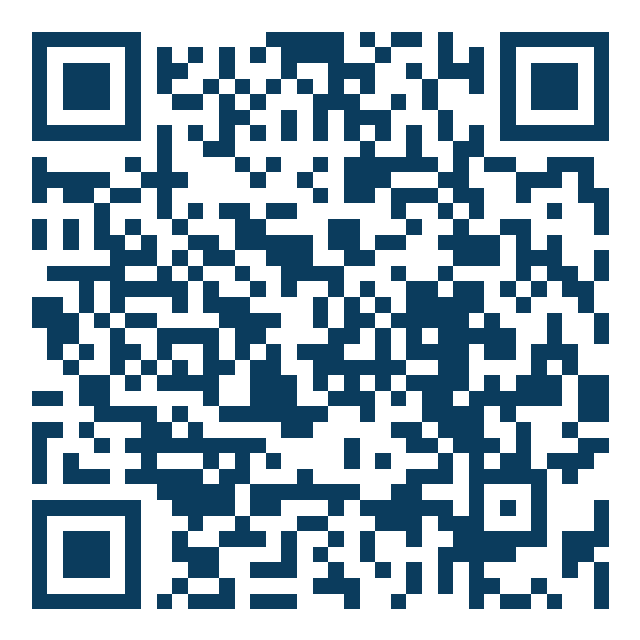
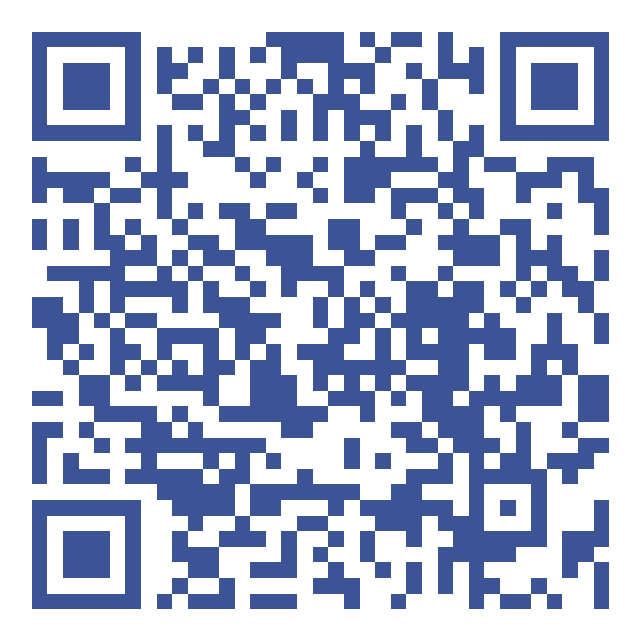
Paleta institucional de la DIRESA Cajamarca
Colores del emblema (azul, azul marino, rojo, verde y amarillo) en
encabezado, franja institucional, portada, gráficos, mapa, favicon,
imagen para compartir y QR. Combinaciones validadas para contraste
y daltonismo en modo claro y oscuro. Corrige la orientación de la
pirámide poblacional.

diff --git a/src/styles/global.css b/src/styles/global.css
@@ -3,46 +3,55 @@
 /* El tema se fija en <html data-theme="light|dark"> con un script en <head> (sin parpadeo). */
 @custom-variant dark (&:where([data-theme=dark], [data-theme=dark] *));
 
+/* Paleta institucional tomada del emblema de la DIRESA Cajamarca:
+   azul #0087C6 · azul marino #3C5395 · rojo #C43438 · verde #00A859 · amarillo #E0E332.
+   Las combinaciones de gráficos se validaron (contraste y daltonismo) en modo claro y oscuro. */
 :root {
   color-scheme: light;
+  --inst-azul: #0087c6; --inst-marino: #3c5395; --inst-rojo: #c43438; --inst-verde: #00a859; --inst-amarillo: #e0e332;
   /* superficies y tinta */
-  --page: #f4f6f7; --surface: #ffffff; --surface-2: #eef2f3; --surface-3: #e3e9eb;
-  --ink: #0d1b24; --ink-2: #44535c; --muted: #66747c;
-  --grid: #e1e5e6; --axis: #c3cbce; --border: rgba(13, 27, 36, .12);
-  /* institucional: azul petróleo del sector salud */
-  --brand: #0b3c5d; --brand-2: #0f5c7a; --brand-ink: #ffffff;
-  --accent: #0d7c72; --accent-soft: #e2f3f1; --link: #0b6a8a; --focus: #2a78d6;
-  /* series validadas (dataviz: categórica slots 1-2 y rampa ordinal azul) */
-  --s1: #2a78d6; --s2: #eb6834; --s1-strong: #104281;
-  --o1: #86b6ef; --o2: #3987e5; --o3: #1c5cab; --o4: #0d366b;
-  --notice-bg: #fff6e0; --notice-ink: #5a4300; --notice-border: #ecd28c;
-  --warn-bg: #fdecec; --warn-ink: #7a1f1f;
-  --shadow: 0 1px 2px rgba(13,27,36,.06), 0 4px 16px rgba(13,27,36,.05);
+  --page: #f3f6fa; --surface: #ffffff; --surface-2: #eef2f8; --surface-3: #e2e8f2;
+  --ink: #141c33; --ink-2: #47506a; --muted: #687189;
+  --grid: #e2e7ef; --axis: #c5cddb; --border: rgba(20, 28, 51, .12);
+  /* institucional */
+  --brand: #3c5395; --brand-2: #0087c6; --brand-ink: #ffffff;
+  --accent: #006fa3; --accent-soft: #e3f1fa; --link: #006fa3; --focus: #0087c6;
+  --verde: #00a859;
+  /* series de gráficos */
+  --s1: #0087c6; --s2: #c43438; --s1-strong: #3c5395;
+  --o1: #a5b4df; --o2: #6f84c4; --o3: #3c5395; --o4: #24346a;
+  --notice-bg: #fbfbe2; --notice-ink: #4a4a00; --notice-border: #e0e332;
+  --warn-bg: #fbeaea; --warn-ink: #7f1d21;
+  --shadow: 0 1px 2px rgba(20,28,51,.06), 0 4px 16px rgba(20,28,51,.05);
 }
 :root[data-theme="dark"] {
   color-scheme: dark;
-  --page: #0c1215; --surface: #141c20; --surface-2: #1b252a; --surface-3: #243137;
-  --ink: #f2f6f7; --ink-2: #bcc8cc; --muted: #93a2a8;
-  --grid: #26323a; --axis: #36444b; --border: rgba(255,255,255,.10);
-  --brand: #08263a; --brand-2: #0d4660;
-  --accent: #3cc2b4; --accent-soft: #10302d; --link: #7cc7e6; --focus: #5598e7;
-  --s1: #3987e5; --s2: #d95926; --s1-strong: #9ec5f4;
-  --o1: #184f95; --o2: #256abf; --o3: #5598e7; --o4: #9ec5f4;
-  --notice-bg: #2e2611; --notice-ink: #f3dc9b; --notice-border: #5c4a1a;
-  --warn-bg: #3a1717; --warn-ink: #f5c1c1;
+  --page: #0b1220; --surface: #121b2b; --surface-2: #1a2538; --surface-3: #22304a;
+  --ink: #f1f5fb; --ink-2: #b9c4d6; --muted: #8f9bb1;
+  --grid: #233047; --axis: #33425d; --border: rgba(255,255,255,.10);
+  --brand: #22336a; --brand-2: #0b5f8c;
+  --accent: #4fb8e8; --accent-soft: #0e2a3d; --link: #5cc0f0; --focus: #4fb8e8;
+  --verde: #19c26f;
+  --s1: #2a9fd6; --s2: #e0575c; --s1-strong: #a9b9ea;
+  --o1: #3a4f94; --o2: #4d66b0; --o3: #7189d1; --o4: #a9b9ea;
+  --notice-bg: #26260f; --notice-ink: #ecee9c; --notice-border: #6b6c1b;
+  --warn-bg: #3a1719; --warn-ink: #f5c1c3;
   --shadow: 0 1px 2px rgba(0,0,0,.4);
 }
 /* sin JavaScript: respetar la preferencia del sistema */
 @media (prefers-color-scheme: dark) {
   :root:not([data-theme]) {
     color-scheme: dark;
-    --page: #0c1215; --surface: #141c20; --surface-2: #1b252a; --surface-3: #243137;
-    --ink: #f2f6f7; --ink-2: #bcc8cc; --muted: #93a2a8; --grid: #26323a; --axis: #36444b; --border: rgba(255,255,255,.10);
-    --brand: #08263a; --brand-2: #0d4660; --accent: #3cc2b4; --accent-soft: #10302d; --link: #7cc7e6;
-    --s1: #3987e5; --s2: #d95926; --s1-strong: #9ec5f4; --o1: #184f95; --o2: #256abf; --o3: #5598e7; --o4: #9ec5f4;
-    --notice-bg: #2e2611; --notice-ink: #f3dc9b; --notice-border: #5c4a1a;
+    --page: #0b1220; --surface: #121b2b; --surface-2: #1a2538; --surface-3: #22304a;
+    --ink: #f1f5fb; --ink-2: #b9c4d6; --muted: #8f9bb1; --grid: #233047; --axis: #33425d; --border: rgba(255,255,255,.10);
+    --brand: #22336a; --brand-2: #0b5f8c; --accent: #4fb8e8; --accent-soft: #0e2a3d; --link: #5cc0f0; --verde: #19c26f;
+    --s1: #2a9fd6; --s2: #e0575c; --s1-strong: #a9b9ea; --o1: #3a4f94; --o2: #4d66b0; --o3: #7189d1; --o4: #a9b9ea;
+    --notice-bg: #26260f; --notice-ink: #ecee9c; --notice-border: #6b6c1b;
   }
 }
+
+/* Franja institucional con los cuatro colores del emblema */
+.franja { height: 4px; background: linear-gradient(90deg, var(--inst-amarillo) 0 25%, var(--inst-rojo) 25% 50%, var(--inst-verde) 50% 75%, var(--inst-azul) 75% 100%); }
 
 @theme {
   --font-sans: system-ui, -apple-system, "Segoe UI", Roboto, "Helvetica Neue", Arial, sans-serif;

diff --git a/scripts/og-2025.html b/scripts/og-2025.html
@@ -1,19 +1,19 @@
 <!doctype html><html lang="es"><head><meta charset="utf-8"><style>
 html,body{margin:0;width:1200px;height:630px;overflow:hidden;font-family:"Segoe UI",system-ui,sans-serif}
-body{background:#0b3c5d;color:#fff;position:relative}
-.g1{position:absolute;right:-160px;top:-180px;width:640px;height:640px;border-radius:50%;background:radial-gradient(closest-side,rgba(127,224,212,.38),transparent)}
-.g2{position:absolute;left:300px;bottom:-260px;width:560px;height:560px;border-radius:50%;background:radial-gradient(closest-side,rgba(57,135,229,.35),transparent)}
+body{background:linear-gradient(135deg,#3c5395 0%,#304684 55%,#0b6fa5 100%);color:#fff;position:relative}
+.g1{position:absolute;right:-160px;top:-180px;width:640px;height:640px;border-radius:50%;background:radial-gradient(closest-side,rgba(0,135,198,.55),transparent)}
+.g2{position:absolute;left:300px;bottom:-260px;width:560px;height:560px;border-radius:50%;background:radial-gradient(closest-side,rgba(224,227,50,.16),transparent)}
 .in{position:absolute;inset:64px 72px}
-.k{font-size:22px;letter-spacing:.08em;text-transform:uppercase;color:#9fe6dc;font-weight:700}
+.k{font-size:22px;letter-spacing:.08em;text-transform:uppercase;color:#e0e332;font-weight:700}
 h1{font-size:74px;line-height:1.02;margin:22px 0 0;font-weight:800}
-h1 span{color:#9fe6dc}
+h1 span{color:#e0e332}
 p{font-size:28px;line-height:1.35;color:rgba(255,255,255,.86);margin:22px 0 0;max-width:820px}
 .row{position:absolute;left:0;bottom:0;display:flex;gap:16px}
 .c{background:rgba(255,255,255,.1);border:1px solid rgba(255,255,255,.22);border-radius:16px;padding:14px 20px}
 .c b{display:block;font-size:34px}.c s{text-decoration:none;font-size:17px;color:rgba(255,255,255,.75)}
 .logo{position:absolute;right:0;top:0;width:96px;height:96px;border-radius:22px;background:rgba(255,255,255,.12);border:1px solid rgba(255,255,255,.25);display:grid;place-items:center}
-</style></head><body><div class="g1"></div><div class="g2"></div><div class="in">
-<div class="logo"><svg width="60" height="60" viewBox="0 0 24 24" fill="none"><path d="M12 3v18M3 12h18" stroke="#7fe0d4" stroke-width="3.2" stroke-linecap="round"/><path d="M5 17l3.5-4 3 2.5L18 8" stroke="#fff" stroke-width="1.8" stroke-linecap="round" stroke-linejoin="round"/></svg></div>
+</style></head><body><div style="position:absolute;left:0;right:0;top:0;height:10px;background:linear-gradient(90deg,#e0e332 0 25%,#c43438 25% 50%,#00a859 50% 75%,#0087c6 75% 100%)"></div><div class="g1"></div><div class="g2"></div><div class="in">
+<div class="logo"><svg width="60" height="60" viewBox="0 0 24 24" fill="none"><path d="M12 3v18M3 12h18" stroke="#e0e332" stroke-width="3.2" stroke-linecap="round"/><path d="M5 17l3.5-4 3 2.5L18 8" stroke="#fff" stroke-width="1.8" stroke-linecap="round" stroke-linejoin="round"/></svg></div>
 <div class="k">Red Integrada de Salud San Miguel · DIRESA Cajamarca</div>
 <h1>ASIS DIGITAL <span>2025</span></h1>
 <p>Análisis de Situación de Salud de la provincia de San Miguel: indicadores, mapas y líneas de acción.</p>

diff --git a/src/components/islas/MapaTerritorial.vue b/src/components/islas/MapaTerritorial.vue
@@ -86,7 +86,7 @@ function pintar() {
       if (props.soloDistrito && p.distrito !== props.soloDistrito) continue;
       const [x, y] = f.geometry.coordinates;
       const m = L.circleMarker([y, x], {
-        radius: radio(p.categoria), weight: 2, color: '#ffffff', fillColor: p.institucion === 'EsSalud' ? '#6b7a80' : css('--accent'), fillOpacity: 1,
+        radius: radio(p.categoria), weight: 2, color: '#ffffff', fillColor: p.institucion === 'EsSalud' ? '#6b7a80' : css('--verde'), fillOpacity: 1,
         dashArray: p.verificacion.startsWith('revisar') ? '2 2' : undefined,
       });
       m.bindPopup(popupEESS(f)); m.bindTooltip(p.nombre, { direction: 'top', offset: [0, -6] });
@@ -181,9 +181,9 @@ const unidadTxt = computed(() => ind.value.unidad === '%' ? '%' : ind.value.unid
       <div v-if="verEESS" class="mt-4 border-t border-line pt-3">
         <p class="font-semibold text-ink">Establecimientos</p>
         <ul class="mt-1.5 space-y-1">
-          <li v-for="c in ['I-1','I-2','I-3','I-4']" :key="c" class="flex items-center gap-2"><svg width="22" height="22" aria-hidden="true"><circle cx="11" cy="11" :r="radio(c)" fill="var(--accent)" stroke="#fff" stroke-width="2"/></svg>Categoría {{ c }} (MINSA)</li>
+          <li v-for="c in ['I-1','I-2','I-3','I-4']" :key="c" class="flex items-center gap-2"><svg width="22" height="22" aria-hidden="true"><circle cx="11" cy="11" :r="radio(c)" fill="var(--verde)" stroke="#fff" stroke-width="2"/></svg>Categoría {{ c }} (MINSA)</li>
           <li class="flex items-center gap-2"><svg width="22" height="22" aria-hidden="true"><circle cx="11" cy="11" r="6" fill="#6b7a80" stroke="#fff" stroke-width="2"/></svg>EsSalud</li>
-          <li class="flex items-center gap-2"><svg width="22" height="22" aria-hidden="true"><circle cx="11" cy="11" r="6" fill="var(--accent)" stroke="var(--ink)" stroke-width="1.5" stroke-dasharray="2 2"/></svg>Coordenada a revisar</li>
+          <li class="flex items-center gap-2"><svg width="22" height="22" aria-hidden="true"><circle cx="11" cy="11" r="6" fill="var(--verde)" stroke="var(--ink)" stroke-width="1.5" stroke-dasharray="2 2"/></svg>Coordenada a revisar</li>
         </ul>
       </div>
       <p class="meta mt-4">Límites referenciales del IGN (fuente INEI) y ubicación de establecimientos de la capa del IGN, publicados en la Infraestructura de Datos Espaciales del Perú. No constituyen demarcación oficial.</p>

diff --git a/src/lib/graficos.ts b/src/lib/graficos.ts
@@ -106,7 +106,7 @@ export function opciones(spec: ChartSpec, ancho: number, animar: boolean): any {
       grid: { left: 12, right: 12, top: 30, bottom: 8, containLabel: true },
       tooltip: { ...base.tooltip, trigger: 'axis', axisPointer: { type: 'shadow' },
         formatter: (ps: any[]) => `<b>${esc(ps[0].name)} años</b><br>` + ps.map(p => `${p.marker} <b>${esc((p.seriesIndex === 0 ? spec.etFem : spec.etMasc)[p.dataIndex])} %</b> ${esc(p.seriesName)}`).join('<br>') },
-      xAxis: { type: 'value', min: -mx, max: mx, splitLine: { lineStyle: { color: grid } }, axisLabel: { color: tinta2, formatter: (v: number) => fmtNum(Math.abs(v)) + ' %' } },
+      xAxis: { type: 'value', min: -mx, max: mx, splitLine: { lineStyle: { color: grid } }, axisLabel: { color: tinta2, showMinLabel: false, showMaxLabel: false, formatter: (v: number) => fmtNum(Math.abs(v)) + ' %' } },
       yAxis: { type: 'category', data: spec.grupos, axisTick: { show: false }, axisLine: { lineStyle: { color: eje } }, axisLabel: { color: tinta, fontSize: 11 } },
       series: [mk('Femenino', spec.femenino, spec.etFem, colorDe('s1'), -1), mk('Masculino', spec.masculino, spec.etMasc, colorDe('s2'), 1)],
     };
